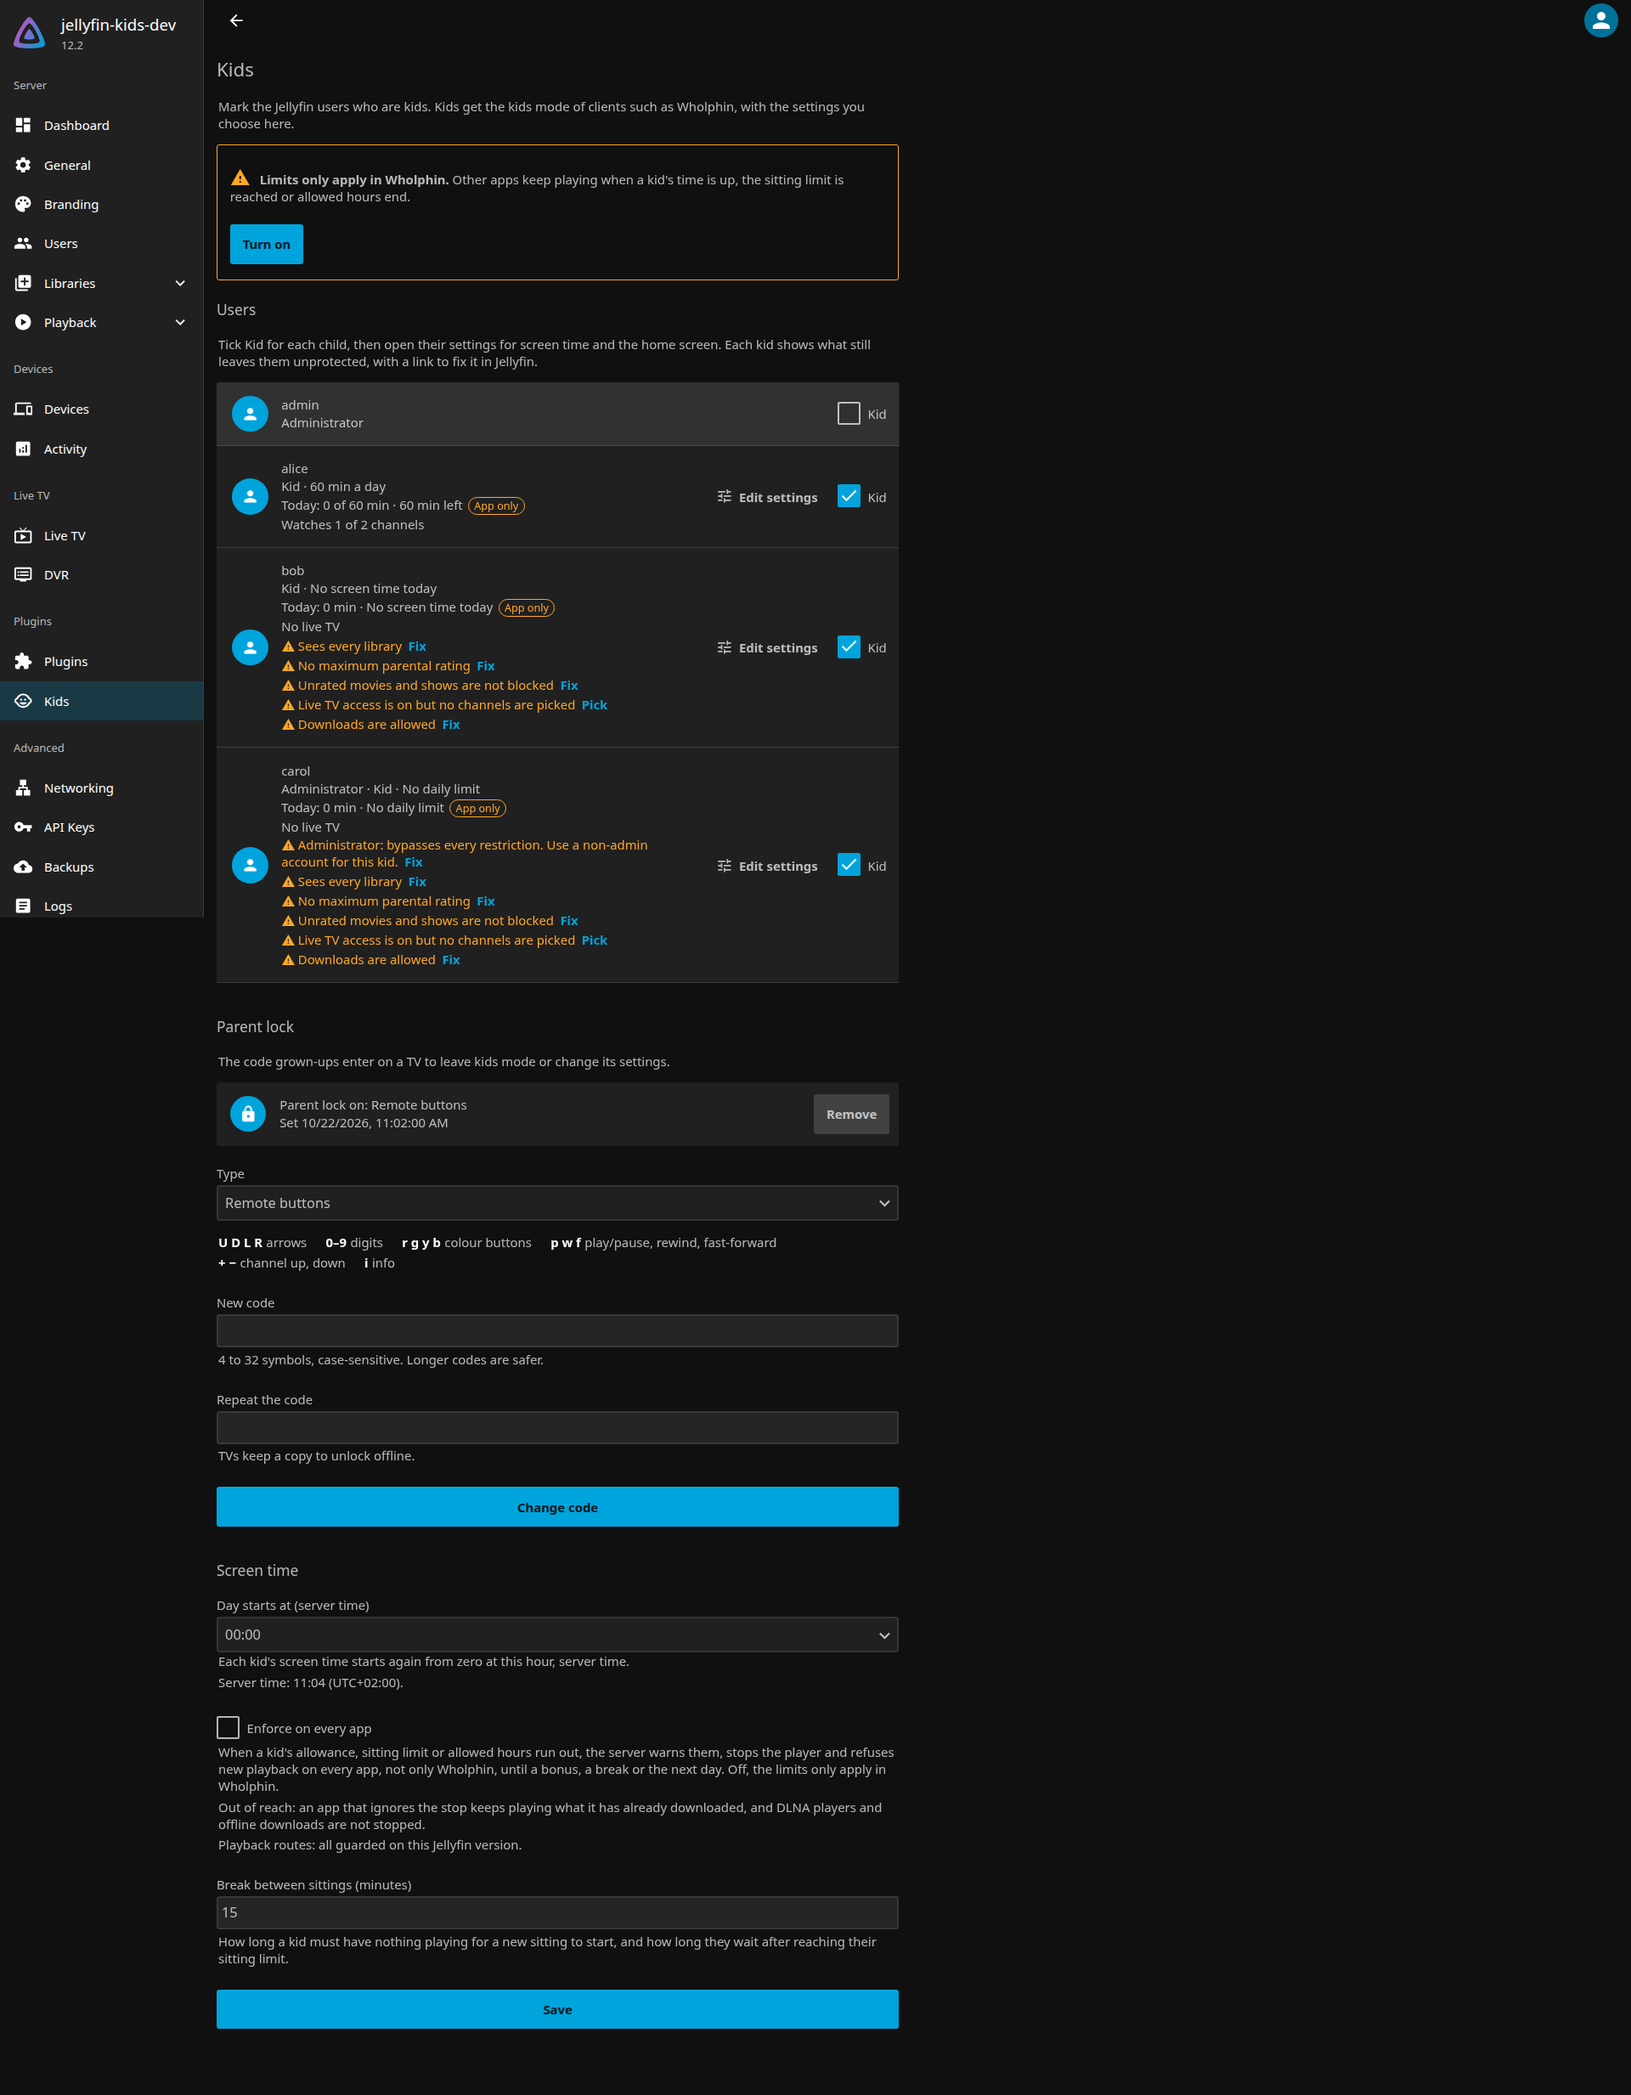
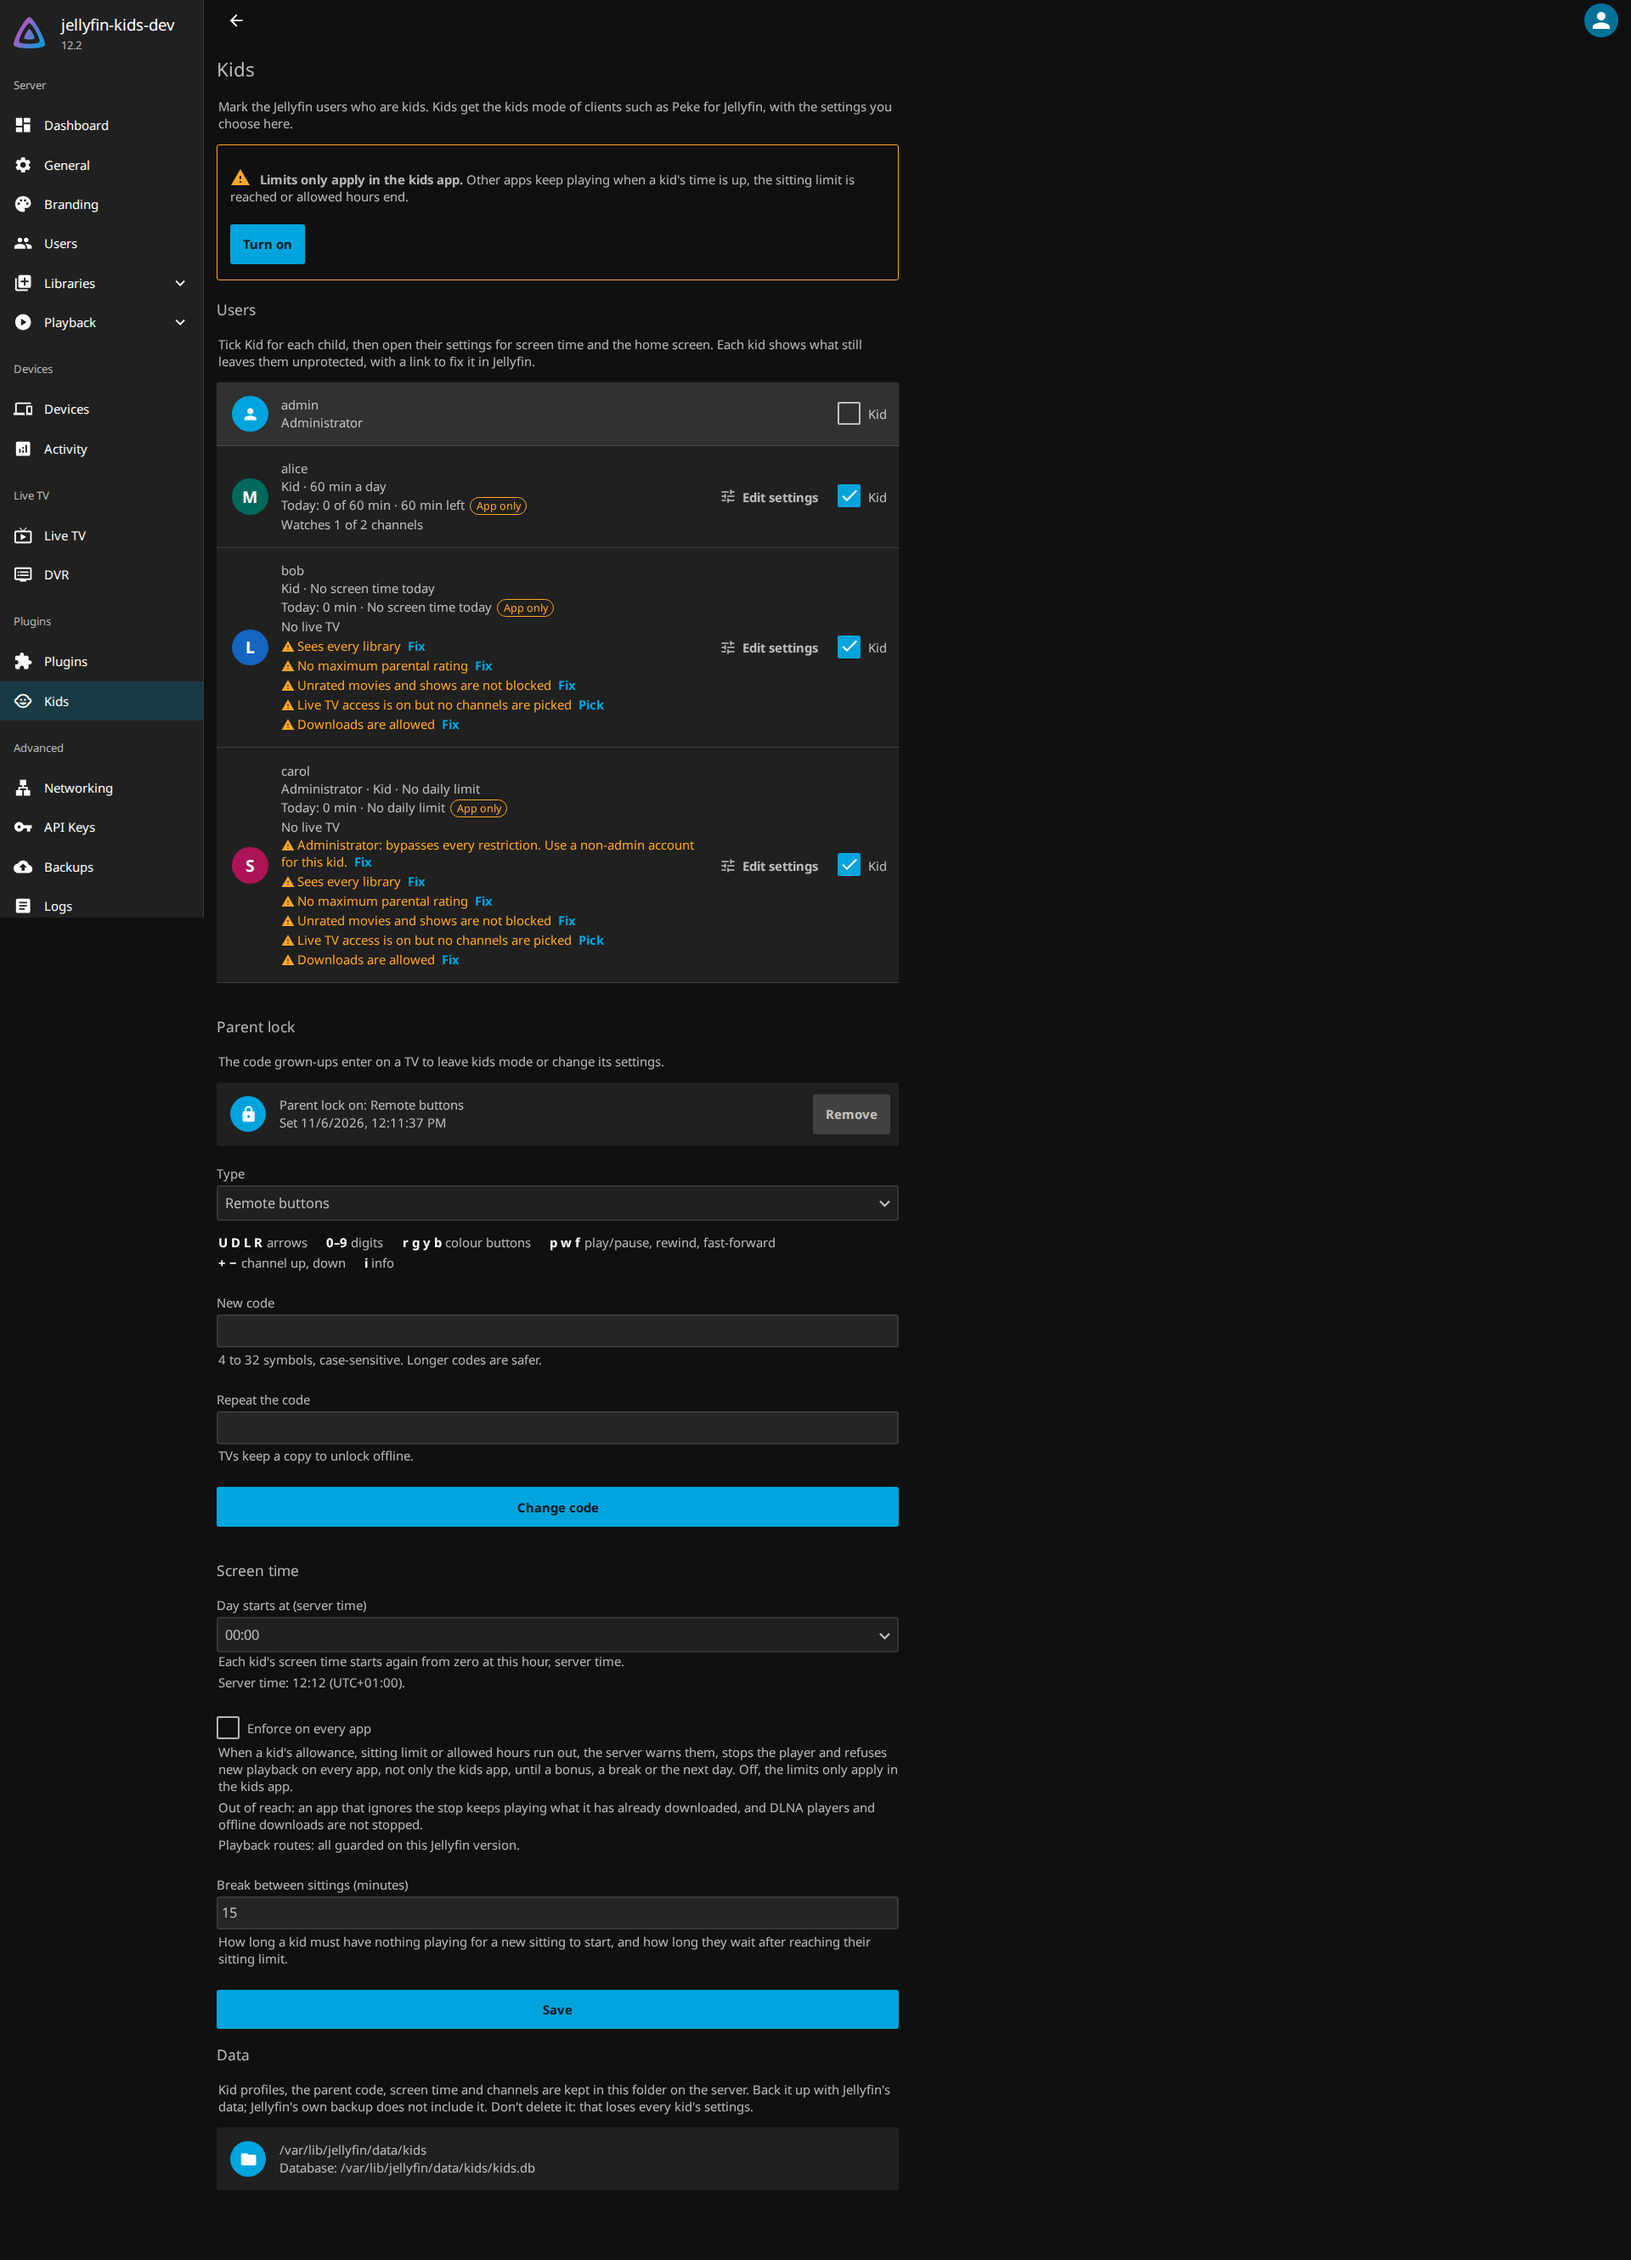
Refresh the README screenshots and show the supported clients

diff --git a/README.md b/README.md
@@ -72,24 +72,19 @@ and for installing a release by hand.
 
 ## Screenshots
 
-The Kids dashboard pages in Jellyfin 12.2 (development server, with sample kids).
+The Kids dashboard pages in Jellyfin 12.2, on a development server with three sample kids. Select a picture to see it
+full size.
 
 <table>
   <tr>
-    <td width="50%"><a href="docs/assets/screenshots/kids-page-dark.png"><img src="docs/assets/screenshots/kids-page-dark.png" alt="Kids page in the dark theme: users with their kid status, today's screen time and health warnings with Fix links, the enforcement banner, the parent lock and the screen time settings"></a></td>
-    <td width="50%"><a href="docs/assets/screenshots/kid-editor-dark.png"><img src="docs/assets/screenshots/kid-editor-dark.png" alt="Kid editor in the dark theme: health warnings with Fix links above the Kids, Profile, Access and Parental control tabs; the Kids tab with screen time and Reset today, daily allowance, sitting limit and bonus, browsing, home sections, picks and live TV channels"></a></td>
+    <td width="40%" valign="top"><a href="docs/assets/screenshots/kids-page-dark.png"><img src="docs/assets/screenshots/kids-page-dark.png" alt="Kids page: alice, a protected kid with 60 minutes a day and one live TV channel; bob and carol with the gaps Jellyfin still leaves open and their Fix links; the enforcement banner, the parent lock, the screen time settings and the data folder"></a></td>
+    <td width="40%" valign="top"><a href="docs/assets/screenshots/kid-editor-dark.png"><img src="docs/assets/screenshots/kid-editor-dark.png" alt="Kid editor for bob: the gaps with Fix links above the Kids, Profile, Access and Parental control tabs; the Kids tab with screen time and Reset today, daily allowance, sitting limit and bonus, avatar, browsing, home sections, picks and live TV channels"></a></td>
+    <td width="20%" valign="top"><a href="docs/assets/screenshots/kids-page-mobile.png"><img src="docs/assets/screenshots/kids-page-mobile.png" alt="Kids page on a narrow phone screen"></a></td>
   </tr>
   <tr>
-    <td align="center"><b>Kids page</b>: who is a kid, today's screen time, what still leaves each kid unprotected, with Fix links, the parent lock and household settings.</td>
-    <td align="center"><b>Kid editor</b>: screen time, sitting limit, bonus and Reset today, home sections, picks and live TV channels, with tabs for the kid's Jellyfin profile, libraries and parental control.</td>
-  </tr>
-  <tr>
-    <td width="50%"><a href="docs/assets/screenshots/kids-page-light.png"><img src="docs/assets/screenshots/kids-page-light.png" alt="Kids page in the light theme"></a></td>
-    <td width="50%" align="center"><a href="docs/assets/screenshots/kids-page-mobile.png"><img src="docs/assets/screenshots/kids-page-mobile.png" alt="Kids page on a narrow phone screen" width="200"></a></td>
-  </tr>
-  <tr>
-    <td align="center">Light theme</td>
-    <td align="center">On a phone</td>
+    <td align="center"><b>Kids page</b>: who is a kid, today's screen time, what still leaves each kid unprotected, the parent lock and household settings.</td>
+    <td align="center"><b>Kid editor</b>: screen time, avatar, home sections, picks and live TV channels, with tabs for the kid's Jellyfin profile, libraries and parental control.</td>
+    <td align="center">On a phone.</td>
   </tr>
 </table>
 
@@ -161,12 +156,37 @@ removes everything it enforces.
 
 ## Clients
 
-Clients detect the plugin with the anonymous `GET /Kids/Info`, which lists the features the server
-supports. Clients without kids mode keep working as usual.
+Every Jellyfin client gets the server's rules. A kids app that speaks the plugin's API also gets kids mode: a profile
+picker, a kids home and the parent code on the TV. Clients find the plugin with the anonymous `GET /Kids/Info`, which
+lists the features the server supports, and clients without kids mode keep working as usual.
 
-- **Peke for Jellyfin** (Android TV): the kids client the plugin is built with: who's watching with each kid's
-  avatar, kids home, the parent gate, the daily allowance and a per-sitting timer. In development.
-- Any other client can use the same API.
+<a href="https://github.com/aldoborrero/peke"><img src="docs/assets/clients/peke.svg" alt="Peke for Jellyfin: the kids app for Android TV, made with this plugin" width="100%"></a>
+
+[Peke for Jellyfin](https://github.com/aldoborrero/peke) is an Android TV app made only for kids, built together with
+this plugin. Each kid picks their avatar and gets their own home with their picks, shows and live channels. Peke shows
+the time left, warns before it runs out and stops when it does, even with enforcement off. Grown-ups get in with the
+household parent code. It needs Jellyfin Kids 0.0.7.0 or later and is in development.
+
+<a href="https://github.com/jellyfin/jellyfin-web"><img src="docs/assets/clients/jellyfin-web.svg" alt="Jellyfin Web: Jellyfin's own app in the browser, and the dashboard" width="100%"></a>
+
+[Jellyfin Web](https://github.com/jellyfin/jellyfin-web) is where you set everything up, under Dashboard → Kids. A kid
+who signs in there gets the same limits as anywhere else: their screen time counts, they see only their live TV
+channels, and with enforcement on, playback stops when their time is up. It is the client the plugin is tested with.
+
+<a href="https://jellyfin.org/downloads/"><img src="docs/assets/clients/jellyfin-apps.svg" alt="Jellyfin apps: Android, Android TV, iOS, Kodi and other clients" width="100%"></a>
+
+[Other Jellyfin apps](https://jellyfin.org/downloads/) need nothing installed. The rules live on the server, so a kid's
+screen time, live TV channels and, with enforcement on, the stop at time's up apply in them too. They are not tested
+one by one, and an app that ignores the stop keeps playing what it has already downloaded.
+
+| | Peke | Jellyfin Web | Other Jellyfin apps |
+|---|:---:|:---:|:---:|
+| Kid picker, kids home and picks | ✓ | | |
+| Parent code on the TV | ✓ | | |
+| Jellyfin's libraries, ratings and allowed hours | ✓ | ✓ | ✓ |
+| Screen time counted on the server | ✓ | ✓ | ✓ |
+| Only the kid's live TV channels | ✓ | ✓ | ✓ |
+| Warning and stop when time is up | ✓ | with enforcement | with enforcement |
 
 ## API
 
@@ -241,7 +261,9 @@ the project's [constitution](.specify/memory/constitution.md). Upstream sources 
 
 The code is MIT. See [LICENSE](LICENSE).
 
-The banner in [docs/assets/banner.svg](docs/assets/banner.svg) includes the Jellyfin logo from
+The banner in [docs/assets/banner.svg](docs/assets/banner.svg) and the Jellyfin client cards in
+[docs/assets/clients/](docs/assets/clients/) include the Jellyfin logo from
 [jellyfin-ux](https://github.com/jellyfin/jellyfin-ux), © the Jellyfin contributors, under
-[CC BY-SA 4.0](https://creativecommons.org/licenses/by-sa/4.0/). The banner is shared under the same
-license. Jellyfin Kids is a community plugin, not an official Jellyfin project.
+[CC BY-SA 4.0](https://creativecommons.org/licenses/by-sa/4.0/), and are shared under the same license. The Peke
+card uses Peke's app icon from [Peke for Jellyfin](https://github.com/aldoborrero/peke). Jellyfin Kids is a
+community plugin, not an official Jellyfin project.
